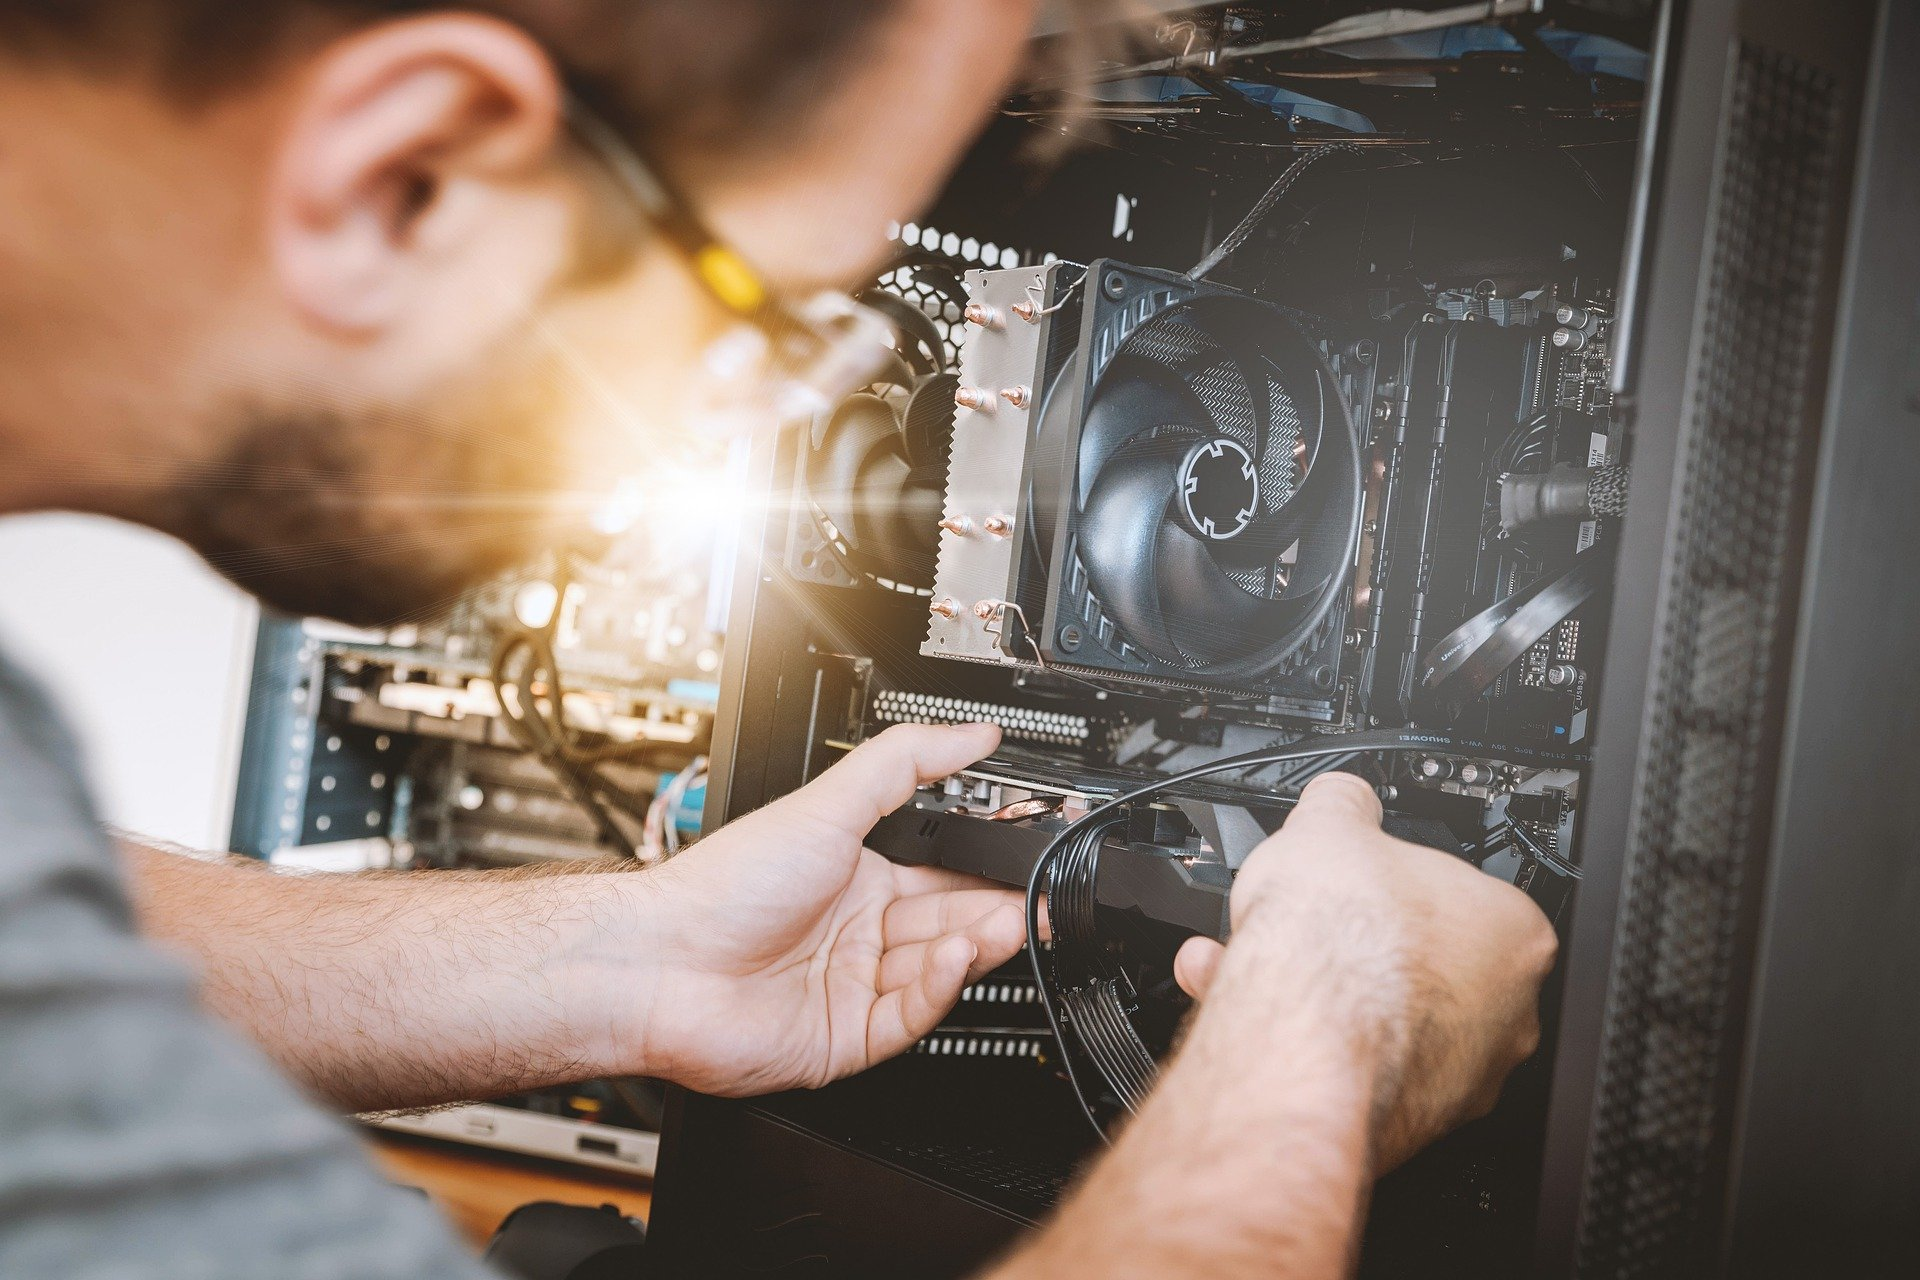
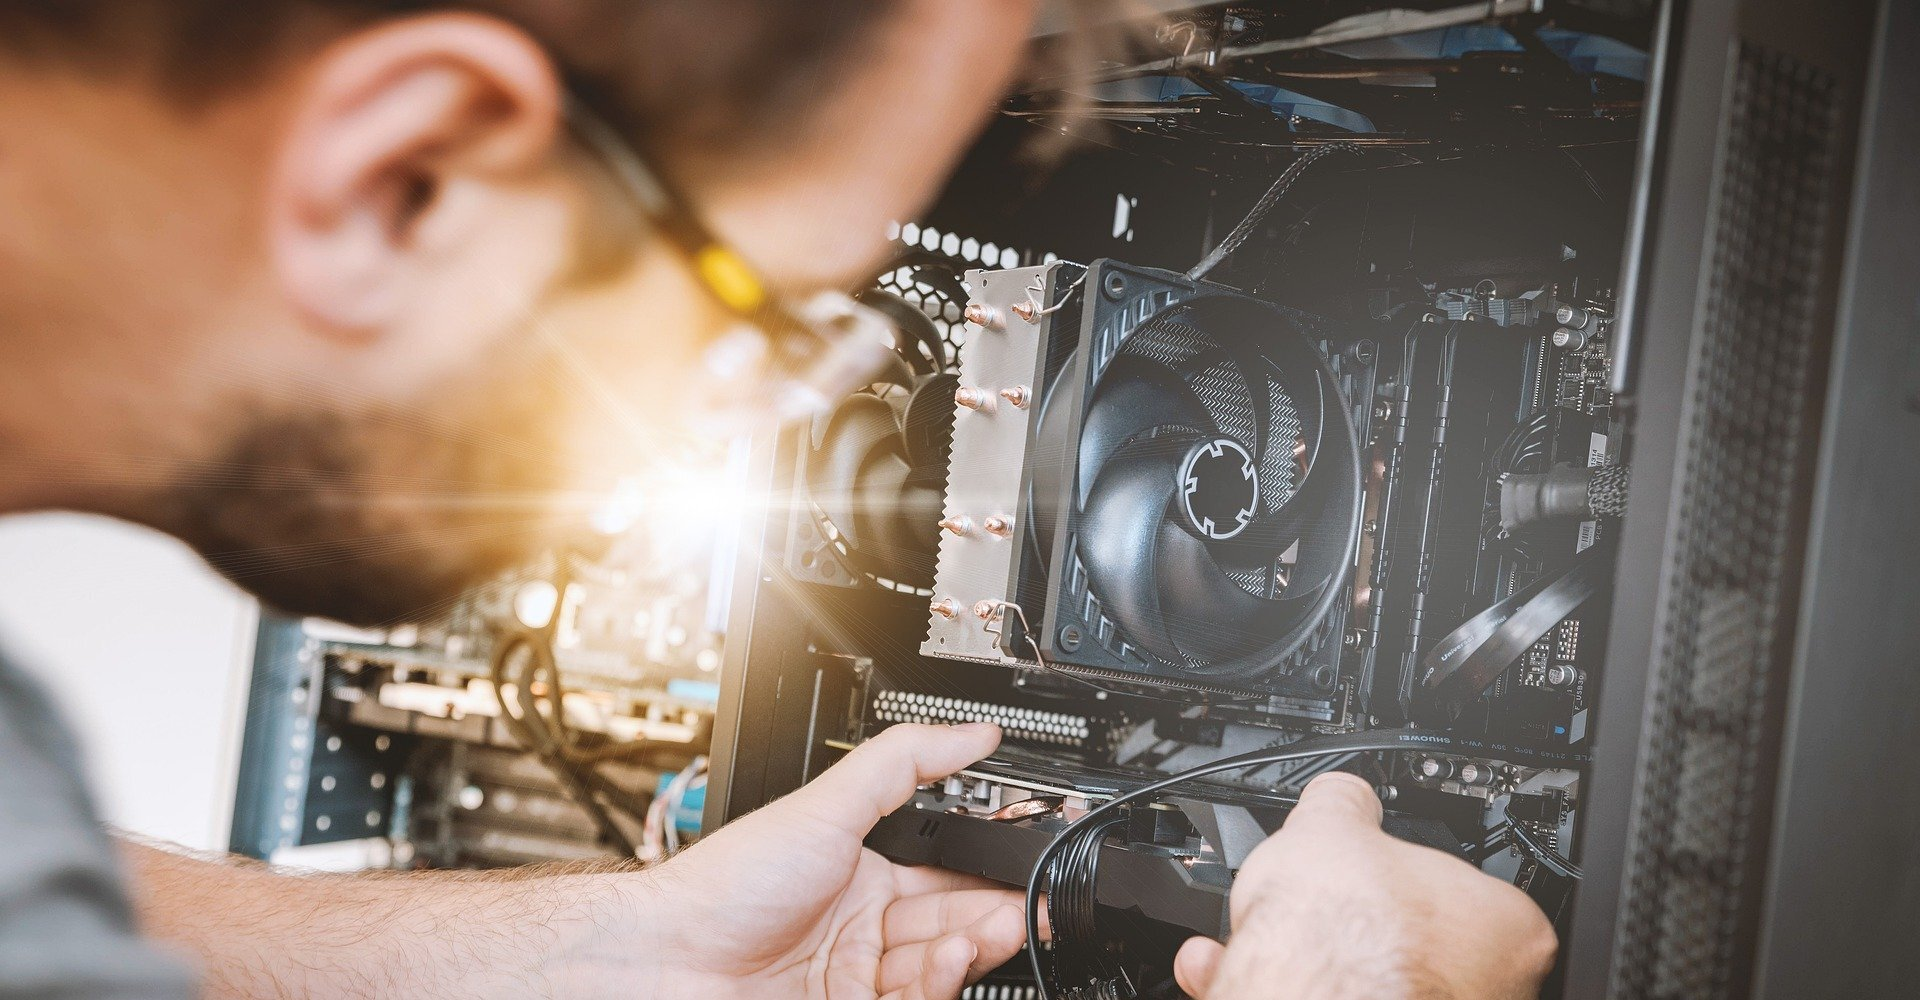
Working on front page

diff --git a/src/components/Home/Services-Cards.js b/src/components/Home/Services-Cards.js
@@ -1,0 +1,60 @@
+import React from 'react'
+import ServicesCard from "../layout/ServicesCard";
+import time from '../../assets/icons/time.png'
+import phone from '../../assets/icons/phone.png'
+import backup from '../../assets/icons/backup.png'
+
+const ServicesCards = () => {
+    return (
+        <>
+            <div className="w-75 mx-auto my-5 d-flex">
+                <div className="col-4 mx-2 d-flex">
+                    <ServicesCard data={{
+                        image: time,
+                        title: "Instalacija Operativnih Sistema",
+                        href: '/'
+                    }} />
+                </div>
+                <div className="col-4 mx-2 d-flex">
+                    <ServicesCard data={{
+                        image: phone,
+                        title: "Podešavanje mrežnih konekcija",
+                        href: '/'
+                    }} />
+                </div>
+                <div className="col-4 mx-2 d-flex">
+                    <ServicesCard data={{
+                        image: backup,
+                        title: "Instalacija Softvera",
+                        href: '/'
+                    }} />
+                </div>
+            </div>
+            <div className="w-75 mx-auto my-5 d-flex">
+                <div className="col-4 mx-2 d-flex">
+                    <ServicesCard data={{
+                        image: time,
+                        title: "Bekap i Restore",
+                        href: '/'
+                    }} />
+                </div>
+                <div className="col-4 mx-2 d-flex">
+                    <ServicesCard data={{
+                        image: phone,
+                        title: "Izrada WEB sajtova",
+                        href: '/'
+                    }} />
+                </div>
+                <div className="col-4 mx-2 d-flex">
+                    <ServicesCard data={{
+                        image: backup,
+                        title: "Google Optimizacija",
+                        href: '/'
+                    }} />
+                </div>
+            </div>
+        </>
+    )
+}
+
+export default ServicesCards

diff --git a/src/components/Home/Contact.js b/src/components/Home/Contact.js
@@ -1,0 +1,31 @@
+import React from "react";
+
+const Contact = () => {
+    return (
+        <div className="contact w-100 text-center my-5">
+            <h1 className="text-light pb-5">Kontaktirajte nas</h1>
+            <form className="w-50 mx-auto my-5">
+                <div className="w-100 my-4 d-flex justify-content-between">
+                    <div className="w-50">
+                        <input type="text" placeholder="Ime" name="name" className="w-100"/>
+                    </div>
+                    <div className="w-50">
+                        <input type="text" placeholder="Prezime" name="last-name" className="w-100"/>
+                    </div>
+                </div>
+                <div className="w-100 my-4 d-flex">
+                    <div className="w-50">
+                        <input type="text" placeholder="Predmet" name="subject" className="w-100"/>
+                    </div>
+                    <div className="w-50">
+                        <input type="text" placeholder="Email" name="email" className="w-100"/>
+                    </div>
+                </div>
+                <div className="w-100 my-4">
+                    <textarea name="message" id="message" cols="30" rows="10" placeholder="Poruka"/>
+                </div>
+            </form>
+        </div>
+    )
+}
+export default Contact

diff --git a/src/components/layout/Nav.js b/src/components/layout/Nav.js
@@ -8,7 +8,7 @@ const Nav = () => {
                     <img src={logo} alt='logo' className="my-3 w-10"/>
                 </a>
             </div>
-            <div className='ml-25 w-25'>
+            <div className='w-25'>
                 <ul className='d-flex w-100 mt-4'>
                     <li className="col-4 mt-4">
                         <a href="/">Pocetna</a>
@@ -18,6 +18,9 @@ const Nav = () => {
                     </li>
                     <li className="col-4 mt-4">
                         <a href="/">Sklapanje</a>
+                    </li>
+                    <li className="col-4 mt-4">
+                        <a href="/">Kontakt</a>
                     </li>
                 </ul>
             </div>

diff --git a/src/components/Home/Banner.js b/src/components/Home/Banner.js
@@ -1,10 +1,15 @@
 import React from 'react'
-import front from '../../assets/images/front-page.jpg'
 const Banner = () => {
     return (
-        <>
-            <img src={front} alt='Banner' className="w-100"/>
-        </>
+        <div className="banner w-100 d-flex flex-column text-center">
+            <div className="w-50 align-self-end">
+                <h1>SERVIS RAČUNARA</h1>
+                <h3 className="text-light">NEMOJTE ČEKATI DA BUDE KASNO</h3>
+                <button className="btn primary-button">
+                    <a href="/" className="text-light">Kontaktirajte nas</a>
+                </button>
+            </div>
+        </div>
     )
 }
 

diff --git a/src/components/Home/Services.js b/src/components/Home/Services.js
@@ -1,12 +1,16 @@
 import React from 'react'
+import ServicesCards from "./Services-Cards";
 
 const Services = () => {
     return (
-        <div className="text-center">
-            <hr/>
-            <h1>Nase Usluge</h1>
-            <h4>OVO SU SAMO NEKE OD USLUGA KOJE PRUŽAMO NAŠIM KRAJNJIM KORISNICIMA</h4>
-        </div>
+        <>
+            <div className="text-center">
+                <hr/>
+                <h1>Nase Usluge</h1>
+                <h4 className="py-5">OVO SU SAMO NEKE OD USLUGA KOJE PRUŽAMO NAŠIM KRAJNJIM KORISNICIMA</h4>
+            </div>
+            <ServicesCards />
+        </>
     )
 }
 

diff --git a/src/components/layout/ServicesCard.js b/src/components/layout/ServicesCard.js
@@ -1,0 +1,19 @@
+import React from 'react'
+
+const ServicesCard = (props) => {
+    const {image, title, href} = props.data;
+    return (
+        <a href={href} className="w-75 align-self-center">
+            <div className="card d-flex flex-column w-100">
+                <div className="w-100 text-center">
+                    <img src={image} alt="Card icon" className="w-25 py-3" />
+                </div>
+                <div className="w-100 text-center">
+                    <h4>{title}</h4>
+                </div>
+            </div>
+        </a>
+    )
+}
+
+export default ServicesCard

diff --git a/src/components/layout/Footer.js b/src/components/layout/Footer.js
@@ -1,0 +1,20 @@
+import React from "react";
+const Footer = () => {
+    return (
+        <div className="w-100 d-flex">
+            <div className="w-25">
+                <h1>ovde sam 1</h1>
+            </div>
+            <div className="w-25">
+                <h1>ovde sam 2</h1>
+            </div>
+            <div className="w-25">
+                <h1>ovde sam 3</h1>
+            </div>
+            <div className="w-25">
+                <h1>ovde sam 4</h1>
+            </div>
+        </div>
+    )
+}
+export  default Footer

diff --git a/src/pages/Home.js b/src/pages/Home.js
@@ -1,16 +1,16 @@
 import React from 'react'
-import Nav from '../components/layout/Nav'
 import Banner from '../components/Home/Banner'
 import Cards from '../components/Home/Cards'
 import Services from '../components/Home/Services.js'
+import Contact from "../components/Home/Contact";
 
 const Home = () => {
     return (
         <>
-            <Nav />
             <Banner />
             <Cards />
             <Services />
+            <Contact />
         </>
     )
 }

diff --git a/src/index.css b/src/index.css
@@ -323,3 +323,20 @@ p {
   text-transform: capitalize;
   cursor: pointer;
 }
+.banner{
+  background-image: url("./assets/images/front-page.jpg");
+  background-size: cover;
+  background-repeat: no-repeat;
+  padding: 15% 0;
+}
+.banner p,
+.banner h1{
+  color: #fff;
+}
+.contact{
+  padding: 10% 0;
+  background-image: url("./assets/images/contact-background.jpg");
+  background-size: cover;
+  background-repeat: no-repeat;
+  background-attachment: fixed;
+}

diff --git a/src/index.js b/src/index.js
@@ -1,10 +1,16 @@
 import React from 'react';
 import ReactDOM from 'react-dom';
+
 import './index.css';
 import Home from './pages/Home';
+import Header from './components/layout/Header';
+import Footer from './components/layout/Footer';
+
 ReactDOM.render(
   <React.StrictMode>
+    <Header />
     <Home />
+    <Footer />
   </React.StrictMode>,
   document.getElementById('root')
 );

diff --git a/src/components/Home/Cards.js b/src/components/Home/Cards.js
@@ -6,7 +6,7 @@ import backup from '../../assets/icons/backup.png'
 
 const Cards = () => {
     return (
-        <div className="w-75 mx-auto d-flex">
+        <div className="w-75 mx-auto my-5 d-flex">
             <div className="col-4 mx-2 d-flex">
                 <Card data={{
                     image: time, 

diff --git a/src/components/layout/Header.js b/src/components/layout/Header.js
@@ -1,0 +1,6 @@
+import React from "react";
+import Nav from "./Nav";
+const Header = () => {
+    return <Nav />
+}
+export  default Header
